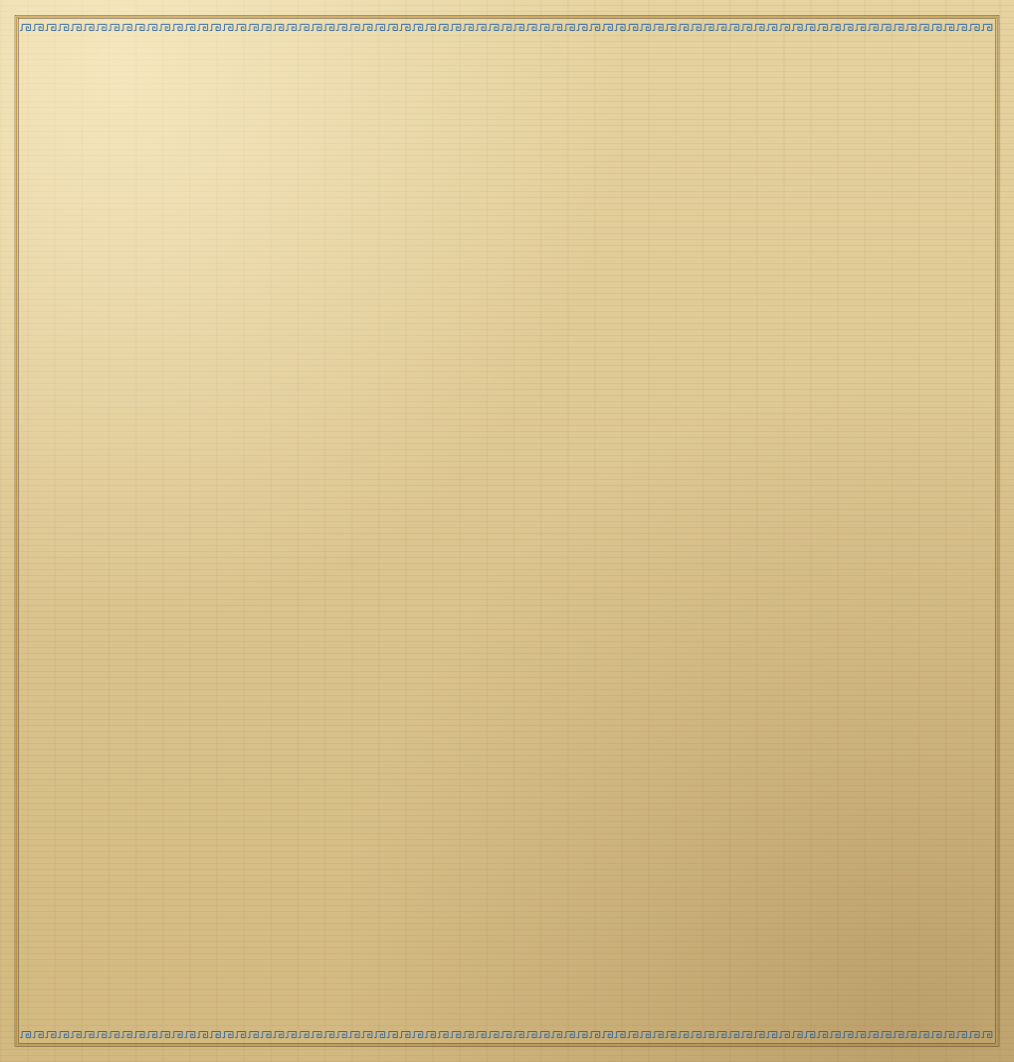
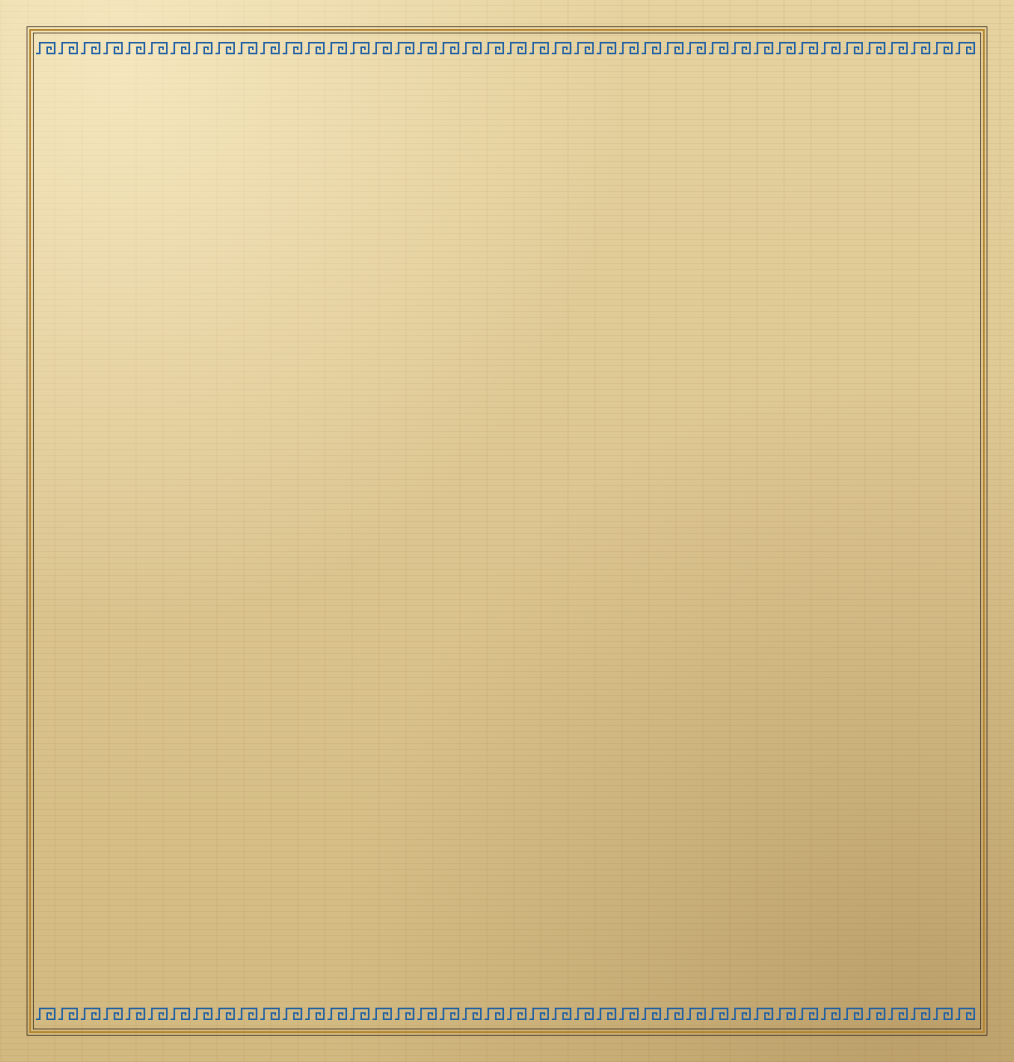
Widget Horas: meandros maiores, fundo e layout em duas colunas para o extraLarge do iPad, cópia das imagens com versão
Claude-Session: https://claude.ai/code/session_013ytyeJoXWVyzidrMBmDbqw

Changed region(s): [[0.0, 0.0, 1.0, 0.9944]]

diff --git a/widget/horas.js b/widget/horas.js
@@ -15,10 +15,11 @@ async function texto(nome) { /* com cópia no aparelho: sem internet, usa a últ
   try { const s = await new Request(SITE + '/' + nome).loadString(); fm.writeString(caminho, s); return s; }
   catch (e) { if (fm.fileExists(caminho)) return fm.readString(caminho); throw e; }
 }
+const V_IMAGENS = '2'; /* mudou alguma imagem em img/widget? some 1 aqui e o aparelho baixa de novo */
 async function imagem(nome) {
-  const caminho = fm.joinPath(dir, nome);
+  const caminho = fm.joinPath(dir, V_IMAGENS + '-' + nome);
   if (fm.fileExists(caminho)) return Image.fromFile(caminho);
-  const img = await new Request(SITE + '/img/widget/' + nome).loadImage(); fm.writeImage(caminho, img); return img;
+  const img = await new Request(SITE + '/img/widget/' + nome + '?v=' + V_IMAGENS).loadImage(); fm.writeImage(caminho, img); return img;
 }
 
 const modulo = { exports: {} };
@@ -91,11 +92,14 @@ try {
     }
     w.refreshAfterDate = new Date(Math.min(h.fim, agora + 10 * 60000));
   } else {
-  w.backgroundImage = await imagem('papiro-' + (familia === 'small' ? 'pequeno' : familia === 'large' ? 'grande' : 'medio') + '.png');
+  w.backgroundImage = await imagem('papiro-' + (familia === 'small' ? 'pequeno' : familia === 'large' ? 'grande' : familia === 'extraLarge' ? 'enorme' : 'medio') + '.png');
   w.setPadding(familia === 'small' ? 12 : 14, 18, 10, 18);
-  const pequeno = familia === 'small', tamDia = pequeno ? 40 : 46, tamHora = pequeno ? 28 : 32, larg = pequeno ? 134 : 300;
+  const pequeno = familia === 'small', enorme = familia === 'extraLarge', tamDia = pequeno ? 40 : enorme ? 56 : 46, tamHora = pequeno ? 28 : enorme ? 38 : 32, larg = pequeno ? 134 : enorme ? 250 : 300;
+  /* iPad, extraLarge: duas colunas (a de sempre à esquerda e as próximas horas à direita) */
+  let pai = w, colDir = null;
+  if (enorme) { const dois = w.addStack(); dois.centerAlignContent(); pai = dois.addStack(); pai.layoutVertically(); dois.addSpacer(28); colDir = dois.addStack(); colDir.layoutVertically(); }
 
-  const linha = w.addStack(); linha.centerAlignContent(); linha.addSpacer();
+  const linha = pai.addStack(); linha.centerAlignContent(); linha.addSpacer();
   const colDia = linha.addStack(); colDia.layoutVertically(); colDia.centerAlignContent();
   const rd = colDia.addImage(await imagem('rot-dia.png')); rd.imageSize = new Size(22, 9); rd.centerAlignImage(); colDia.addSpacer(2);
   const idia = colDia.addImage(await imagem(PLANETA_ARQ[dia.planeta] + '-terracota.png')); idia.imageSize = new Size(tamDia, tamDia); idia.centerAlignImage();
@@ -104,21 +108,23 @@ try {
   const rh = colHora.addImage(await imagem('rot-hora.png')); rh.imageSize = new Size(28, 9); rh.centerAlignImage(); colHora.addSpacer(2);
   const ihora = colHora.addImage(await imagem(PLANETA_ARQ[h.planeta] + '-' + (h.noite ? 'azul' : COR_HORA_DIA) + '.png')); ihora.imageSize = new Size(tamHora, tamHora); ihora.centerAlignImage();
   linha.addSpacer();
-  w.addSpacer(pequeno ? 6 : 4);
+  pai.addSpacer(pequeno ? 6 : 4);
 
-  if (!pequeno) { const bd = w.addImage(barra(hs[0].ini, hs[23].fim, agora, 'horas')); bd.imageSize = new Size(larg, larg * 44 / 720); bd.centerAlignImage(); w.addSpacer(2); }
-  const bh = w.addImage(barra(h.ini, h.fim, agora, 'minutos')); bh.imageSize = new Size(larg, larg * 44 / 720); bh.centerAlignImage();
-  w.addSpacer(3);
-  linhaTexto(w, (i % 12 + 1) + 'ª hora · ' + hhmm(h.ini) + ' às ' + hhmm(h.fim), pequeno ? 11 : 12, TINTA, true);
+  if (!pequeno) { const bd = pai.addImage(barra(hs[0].ini, hs[23].fim, agora, 'horas')); bd.imageSize = new Size(larg, larg * 44 / 720); bd.centerAlignImage(); pai.addSpacer(2); }
+  const bh = pai.addImage(barra(h.ini, h.fim, agora, 'minutos')); bh.imageSize = new Size(larg, larg * 44 / 720); bh.centerAlignImage();
+  pai.addSpacer(3);
+  linhaTexto(pai, (i % 12 + 1) + 'ª hora · ' + hhmm(h.ini) + ' às ' + hhmm(h.fim), pequeno ? 11 : 12, TINTA, true);
 
-  if (familia === 'large') { /* as próximas horas */
-    w.addSpacer(8); linhaTexto(w, 'Nascer do sol ' + hhmm(hs[0].ini) + ' · Pôr do sol ' + hhmm(hs[12].ini), 12, TINTA, true); w.addSpacer(8);
-    for (let k = i + 1; k < Math.min(hs.length, i + 7); k++) {
-      const l = w.addStack(); l.centerAlignContent(); l.addSpacer();
-      const ic = l.addImage(await imagem(PLANETA_ARQ[hs[k].planeta] + '-' + (hs[k].noite ? 'azul' : COR_HORA_DIA) + '.png')); ic.imageSize = new Size(24, 24); l.addSpacer(12);
-      linhaTexto(l, (k % 12 + 1) + 'ª · ' + hhmm(hs[k].ini) + ' às ' + hhmm(hs[k].fim), 14); l.addSpacer(); w.addSpacer(4);
+  const proximas = async (alvo, quantas, tam) => { /* as próximas horas: ícone (ocre de dia, azul de noite) e "1ª · 18:15 às 19:11" */
+    for (let k = i + 1; k < Math.min(hs.length, i + 1 + quantas); k++) {
+      const l = alvo.addStack(); l.centerAlignContent(); l.addSpacer();
+      const ic = l.addImage(await imagem(PLANETA_ARQ[hs[k].planeta] + '-' + (hs[k].noite ? 'azul' : COR_HORA_DIA) + '.png')); ic.imageSize = new Size(tam + 10, tam + 10); l.addSpacer(12);
+      linhaTexto(l, (k % 12 + 1) + 'ª · ' + hhmm(hs[k].ini) + ' às ' + hhmm(hs[k].fim), tam); l.addSpacer(); alvo.addSpacer(4);
     }
-  }
+  };
+  const nascerPor = () => 'Nascer do sol ' + hhmm(hs[0].ini) + ' · Pôr do sol ' + hhmm(hs[12].ini);
+  if (familia === 'large') { w.addSpacer(8); linhaTexto(w, nascerPor(), 12, TINTA, true); w.addSpacer(8); await proximas(w, 6, 14); }
+  if (enorme) { pai.addSpacer(8); linhaTexto(pai, nascerPor(), 12, TINTA, true); await proximas(colDir, 8, 15); }
   w.refreshAfterDate = new Date(Math.min(h.fim, agora + 10 * 60000));
   }
 } catch (e) {

diff --git a/widget/gerar-imagens.js b/widget/gerar-imagens.js
@@ -6,7 +6,7 @@ const { chromium } = require('playwright');
 const base = process.argv[2] || 'http://localhost:8765';
 const PLANETAS = [['sol', 0], ['lua', 1], ['mercurio', 2], ['venus', 3], ['marte', 4], ['jupiter', 5], ['saturno', 6]];
 const CORES = { azul: '#1F5FA3', terracota: '#A03E25', branco: '#FFFFFF', ocre: '#B5852F' }; /* o branco é da tela de bloqueio */
-const FUNDOS = { pequeno: [474, 474], medio: [1014, 474], grande: [1014, 1062] }; /* tamanho dos widgets no iPhone (158 e 338 pt) a 3x */
+const FUNDOS = { pequeno: [474, 474], medio: [1014, 474], grande: [1014, 1062], enorme: [2028, 948] }; /* tamanho dos widgets no iPhone (158 e 338 pt) a 3x */
 (async () => {
   const nav = await chromium.launch(), pg = await nav.newPage({ deviceScaleFactor: 1 });
   await pg.goto(base + '/papiro.css'); /* só para ter a origem; as páginas abaixo carregam o CSS por link */
@@ -17,7 +17,7 @@ const FUNDOS = { pequeno: [474, 474], medio: [1014, 474], grande: [1014, 1062] }
   }
   for (const [t, [w, h]] of Object.entries(FUNDOS)) {
     await pg.setViewportSize({ width: w, height: h });
-    await pg.setContent(`<link rel=stylesheet href="${base}/papiro.css"><style>:root{--moldura-m:.26}body{margin:0}#f{position:relative;width:${w}px;height:${h}px;background:var(--papiro-fundo)}</style><div id=f class=papiro-moldura></div>`);
+    await pg.setContent(`<link rel=stylesheet href="${base}/papiro.css"><style>:root{--moldura-m:.45}body{margin:0}#f{position:relative;width:${w}px;height:${h}px;background:var(--papiro-fundo)}</style><div id=f class=papiro-moldura></div>`);
     await pg.waitForTimeout(600);
     await pg.screenshot({ path: `img/widget/papiro-${t}.png` });
   }
